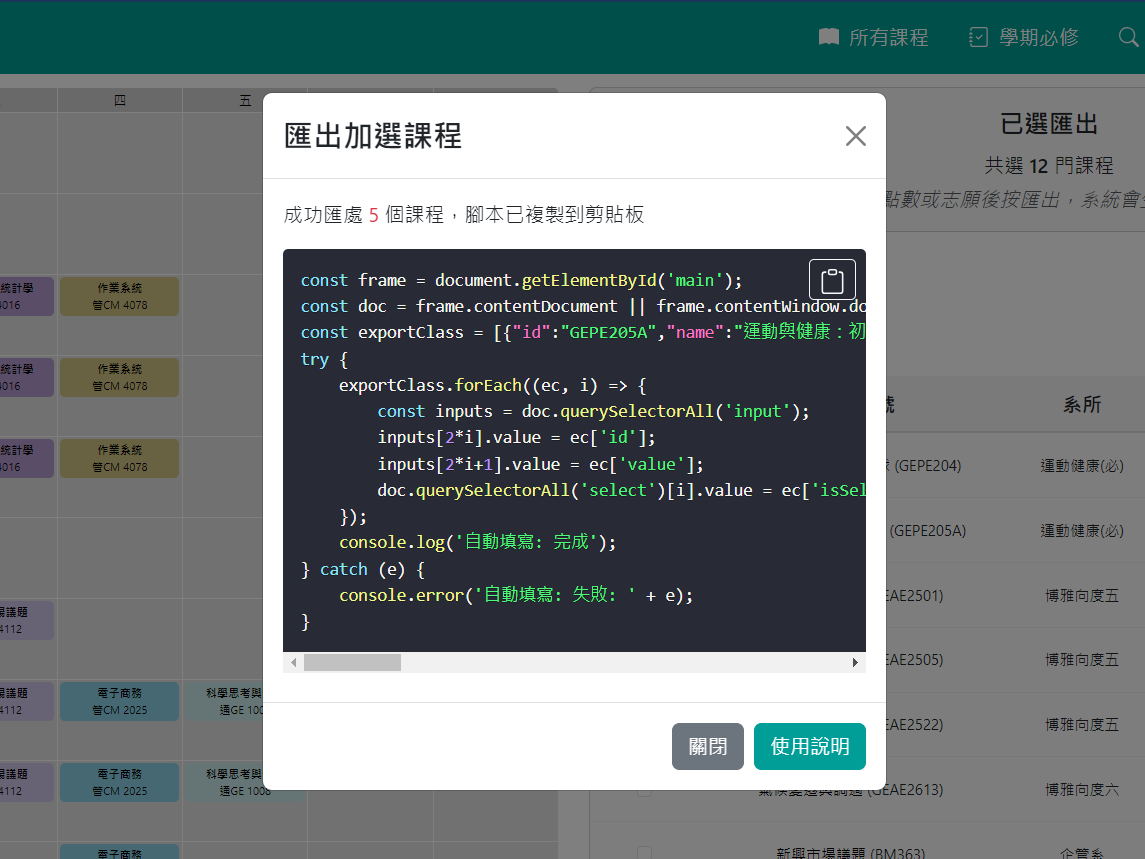
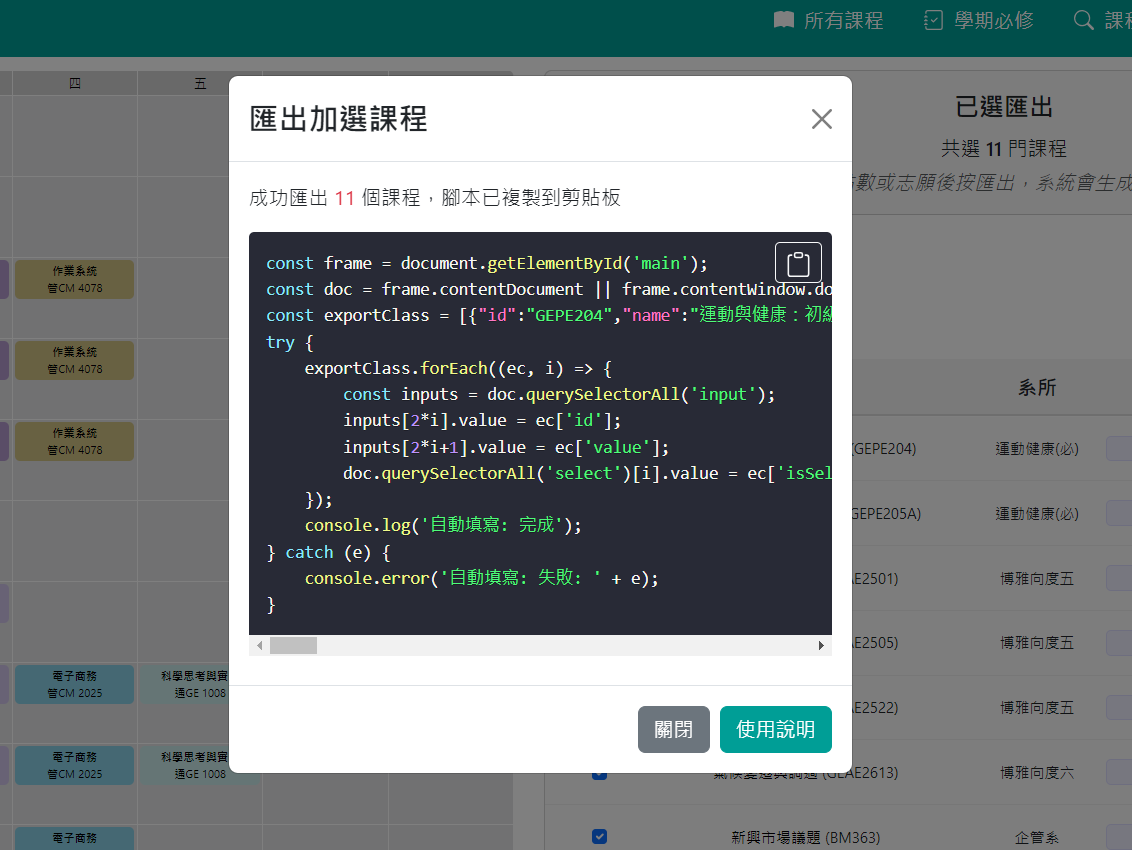
修正: 修正匯出模態框錯字

diff --git a/app/src/components/SelectorSetting/CourseDetective.jsx b/app/src/components/SelectorSetting/CourseDetective.jsx
@@ -9,6 +9,13 @@ class CourseDetective extends Component {
                     <Card.Header className="text-center">
                         <Card.Title className="fw-bolder mb-0 p-2">課程偵探</Card.Title>
                     </Card.Header>
+                    <Card.Body className="d-flex flex-column">
+                        <Card.Text className="text-center">
+                            <span className="text-danger fw-bold d-block">此功能尚未完成，</span>
+                            <span className="d-block">求演算法大師，需要寫個篩選標準排序，根據排序選擇！</span>
+                            <span className="text-light fw-bold">Soon™</span>
+                        </Card.Text>
+                    </Card.Body>
                 </Card>
             </>
         );

diff --git a/app/src/components/SelectorSetting/SelectedCourse.jsx b/app/src/components/SelectorSetting/SelectedCourse.jsx
@@ -137,7 +137,7 @@ try {
             .then(() => {
                 this.setState({
                     showExportModal: true,
-                    exportStateMessage: <p>成功匯處 <span
+                    exportStateMessage: <p>成功匯出 <span
                         className="text-danger">{exportData.length}</span> 個課程，腳本已複製到剪貼板</p>,
                     generatedCode: genCode
                 });

diff --git a/app/src/components/SelectorSetting/AllCourse.jsx b/app/src/components/SelectorSetting/AllCourse.jsx
@@ -3,7 +3,6 @@ import {Card, Col} from "react-bootstrap";
 import styled from "styled-components";
 
 import CoursesList from "./AllCourse/CoursesList";
-import Header from "./AllCourse/AllCourseList/Header";
 import ListInformation from "./AllCourse/ListInformation";
 
 const StyledCardBody = styled(Card.Body)`
